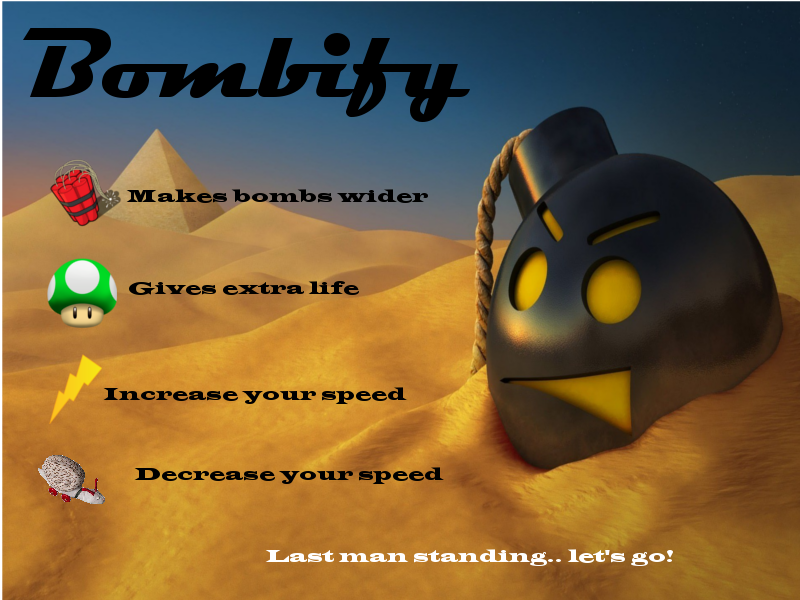
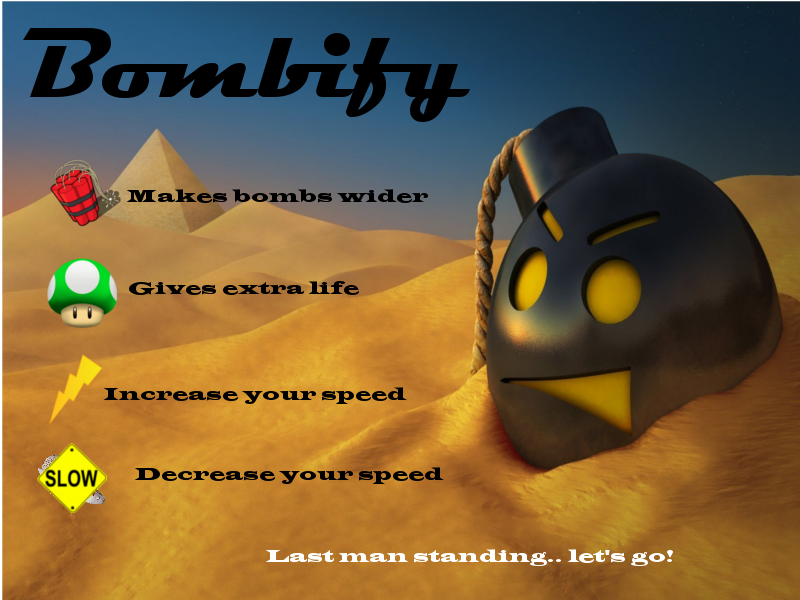
- New slow pic - Volume decreased on items - Speed decrease is only working if player is faster than usual.

Changed region(s): [[0.0312, 0.72, 0.1562, 0.87]]

diff --git a/src/game/PlayState.java b/src/game/PlayState.java
@@ -51,7 +51,7 @@ public class PlayState extends BasicGameState{
 	Animation bomb;
 	SpriteSheet ss;
 	Image hearts, gameOver;
-	Sound soundBomb, background, gg;
+	Sound soundBomb, gg, background;
 	private TrueTypeFont playerFont; //Special font for ending
 
 	/**
@@ -86,12 +86,7 @@ public class PlayState extends BasicGameState{
 		/* Sounds */
 		soundBomb = new Sound("res/sound/bomb.wav");
 		background = new Sound("res/sound/background.wav");
-		gg = new Sound("res/sound/game_over.wav");
-
-
-		/* Background music */
-		background.play();
-		background.loop();
+		gg = new Sound("res/sound/game_over.wav");	
 		
 		gamecont = gc;
 		parseSettings(); // Start by parsing all the settings.
@@ -159,23 +154,20 @@ public class PlayState extends BasicGameState{
 				}
 			}
 		}
+
+		background.play(1, 0.1f);
+		background.loop(1, 0.1f);
 	}
 
 	/* Draws game if players <= 1 draw game over*/
 	@Override
 	public void render(GameContainer c, StateBasedGame game, Graphics g)
-			throws SlickException{
+			throws SlickException{	
 		
-		int x = 0;
-		if(checker){			
-			if(x == 0){
-				background.stop();
-				gg.play();
-				x = 1;
-			}
+		if(checker){
+			background.stop();
 			g.drawImage(gameOver, 0, 0);
-			playerFont.drawString(350, 320, "Player " + winner + " won!" , Color.black);
-		
+			playerFont.drawString(350, 320, "Player " + winner + " won!" , Color.black);		
 		}else {		
 			renderMap(c,g);
 			renderBombs(c,g);
@@ -199,11 +191,8 @@ public class PlayState extends BasicGameState{
 		int alivePlayers = 0; // Alive players
 		for(int i = 0; i < players.length;i++){
 			if(players[i].isAlive()){
-				alivePlayers++;			
-			}
-
-			if(alivePlayers <= 1){
-				winner = i; 
+				alivePlayers++;	
+				winner = i;
 			}
 		}
 
@@ -346,7 +335,7 @@ public class PlayState extends BasicGameState{
 	 * @param b
 	 */
 	public void removeBomb(Bomb b) {
-		soundBomb.play();
+		soundBomb.play(1, 0.3f);
 		boolean hitWallNorth=false, hitWallEast=false, hitWallWest=false, hitWallSouth=false;
 		bombs.remove(b);
 		b.getTile().setBurning();

diff --git a/src/menu/Instructions.java b/src/menu/Instructions.java
@@ -9,16 +9,19 @@ import org.newdawn.slick.GameContainer;
 import org.newdawn.slick.Graphics;
 import org.newdawn.slick.Image;
 import org.newdawn.slick.SlickException;
+import org.newdawn.slick.Sound;
 import org.newdawn.slick.state.BasicGameState;
 import org.newdawn.slick.state.StateBasedGame;
 
 import settings.SettingsContainer;
 
+@SuppressWarnings("deprecation")
 public class Instructions extends BasicGameState {
 	Image menu;
 	Button[] button; 	
 	SettingsContainer sc;
 	Date startTime;	
+	Sound background;
 	
 	public Instructions(SettingsContainer sc){
 		this.sc = sc;
@@ -28,7 +31,8 @@ public class Instructions extends BasicGameState {
 	public void init(GameContainer container, StateBasedGame game)
 			throws SlickException {
 		startTime = new Date(); 
-		menu = new Image("res/new/instructions.png");		
+		menu = new Image("res/new/instructions.png");
+		background = new Sound("res/sound/background.wav");
 	}
 
 	@Override
@@ -36,6 +40,7 @@ public class Instructions extends BasicGameState {
 			throws SlickException {
 		g.drawImage(menu,0,0);		
 	}
+
 
 	@Override
 	public void update(GameContainer gameCont, StateBasedGame game, int delta)

diff --git a/src/game/BombifyGame.java b/src/game/BombifyGame.java
@@ -21,8 +21,7 @@ public class BombifyGame extends StateBasedGame{
 	static SettingsContainer gameSettings; // All the settings of the game stored in a HashMap
 	public BombifyGame() {
 		super("Bombify");
-		try{
-			
+		try{			
 			gameSettings = new SettingsContainer("res/Bombify.cfg");
 		} catch(ParseException e){
 			System.out.println("Error in config file on line " + e.getErrorOffset());
@@ -33,9 +32,9 @@ public class BombifyGame extends StateBasedGame{
 	@Override
 	public void initStatesList(GameContainer container) throws SlickException {
 		addState(new Lobby(gameSettings));		
-		addState(new PlayState(gameSettings));
 		addState(new SettingsMenu(gameSettings,this));
 		addState(new Instructions(gameSettings));
+		addState(new PlayState(gameSettings));
 	}
 	public static void main(String[] args) throws SlickException
 	{

diff --git a/src/entities/Player.java b/src/entities/Player.java
@@ -138,13 +138,18 @@ public class Player implements Renderable {
 			System.out.println("Bombsize is now " + bombSize);
 			break;
 		case 2: 
-			life.play();
+			life.play(1, 0.3f);
 			lives++;
 			System.out.println("Lives: " + lives);
 			break;
 		case 3:
-			speed--;
-			System.out.println("Speed is now " + speed);
+			if(speed > 3){
+				speed--;
+				System.out.println("Speed is now " + speed);
+			} else {
+				System.out.println("Decrease speed isnt possible");
+			}
+			
 			break;
 		case 4:
 			speed++;

diff --git a/src/powerups/Slow.java b/src/powerups/Slow.java
@@ -19,7 +19,7 @@ public class Slow implements Item{
 	public Slow(GameContainer gc, FloorTile ft, int tiles) {
 		
 		try {
-			slow = new Image("res/slow.png");
+			slow = new Image("res/new/slow.png");
 		} catch (SlickException e) {
 			// TODO Auto-generated catch block
 			e.printStackTrace();
